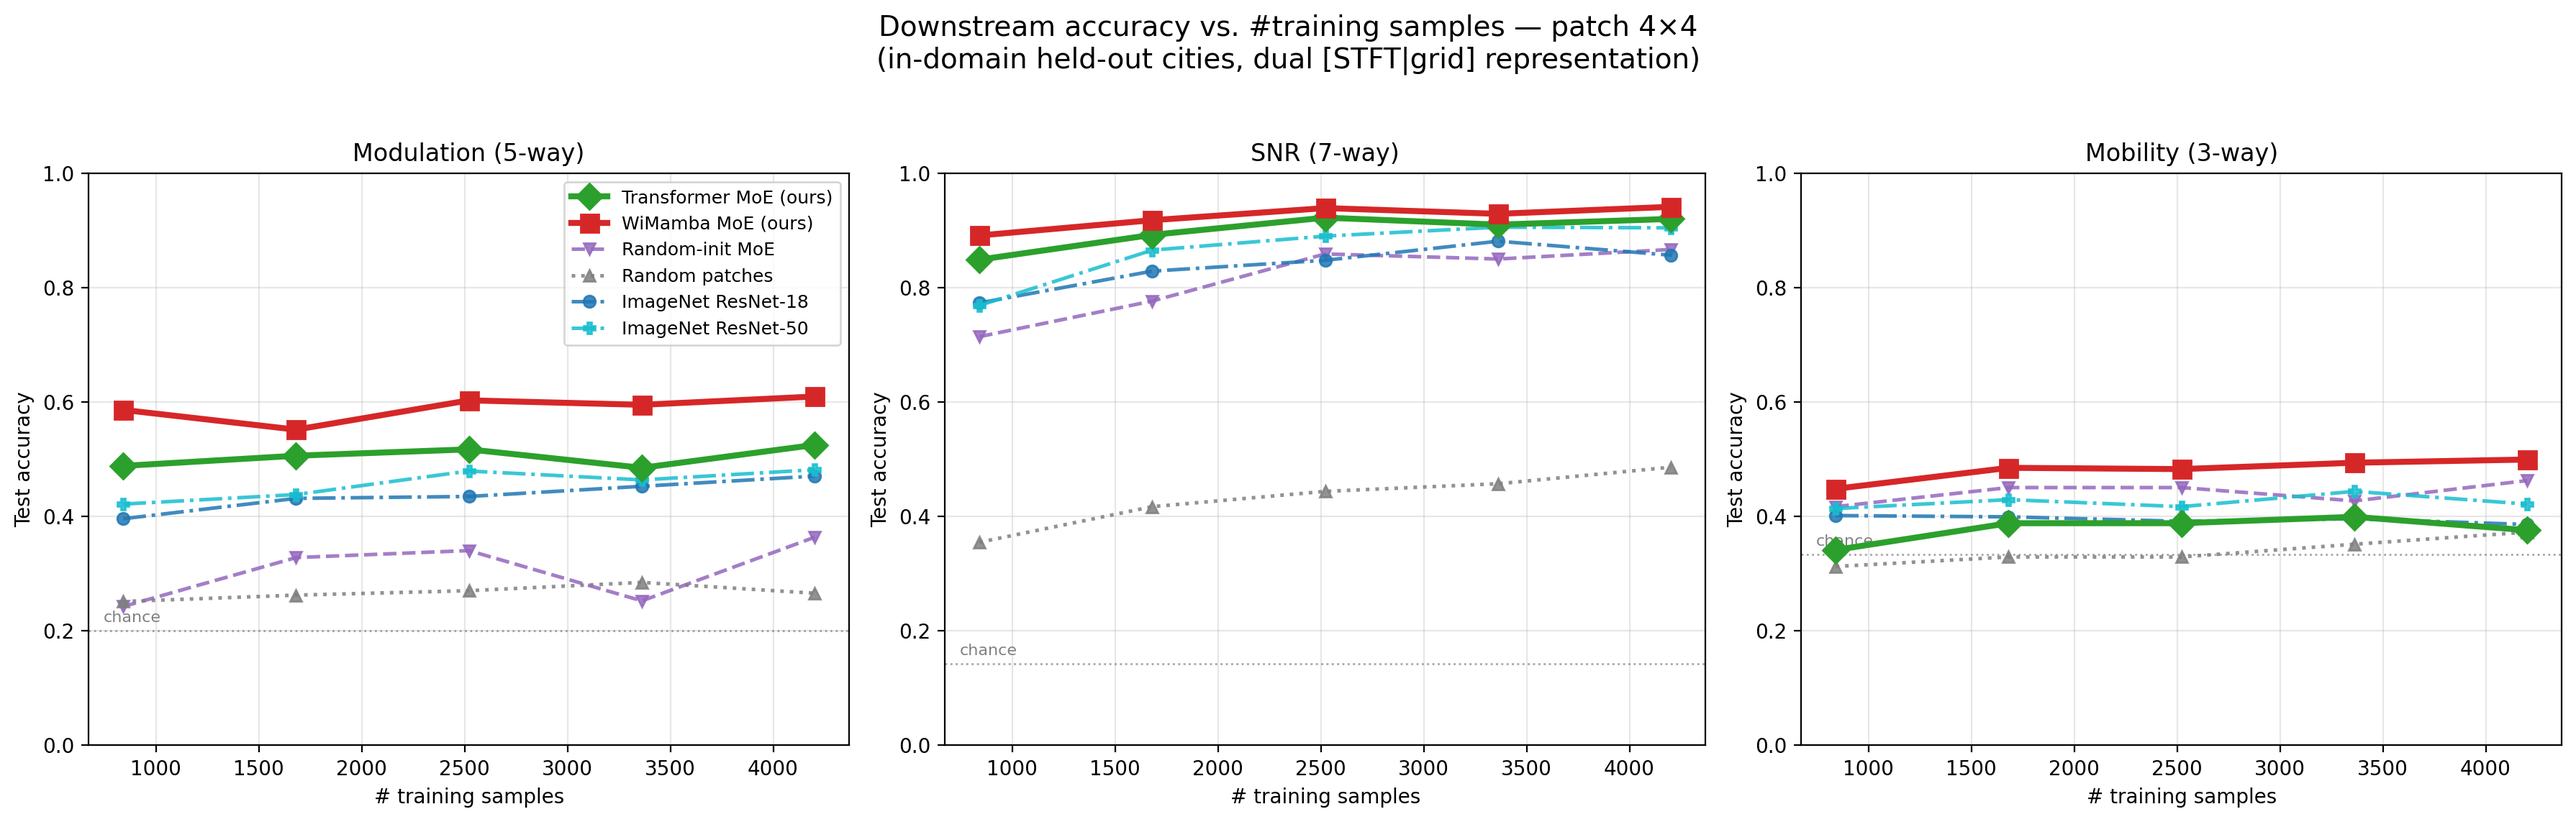
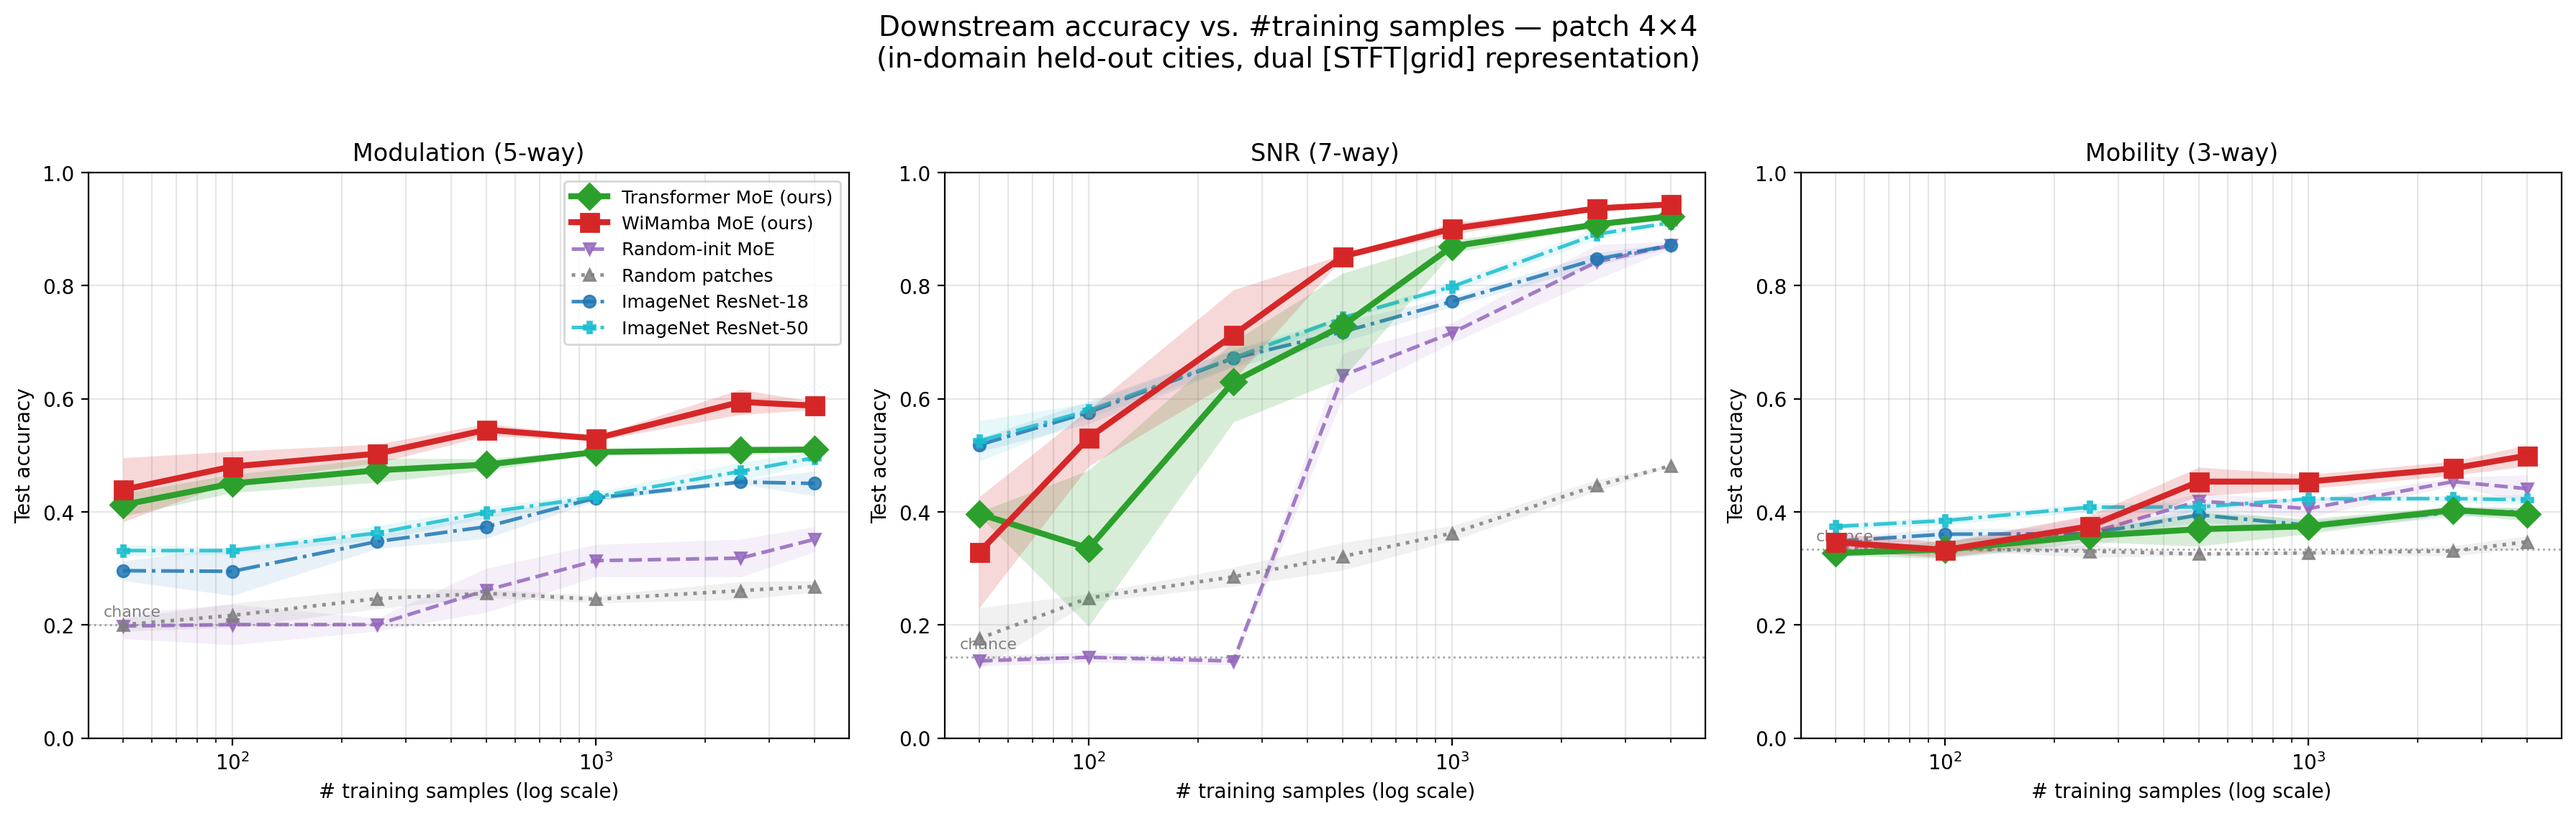
Multi-seed absolute-count sample sweep + std bands on the per-patch figures
The single-seed 5-percentage curves were noisy. Now:
- spectro_sweep.py: add absolute sample_counts mode (50/100/250/500/1000/2500/
  4000) and multi-seed averaging. Each x-point runs over --seeds (42/43/44),
  reseeding both the training subsample and the head init; stores mean, std and
  per-seed scores. Frozen features are fixed — only head training varies.
- spectro_train_heads.py: --sample-counts and --seeds pass-through.
- spectro_plot_samples_per_patch.py: log x-axis, +/-std shaded bands, reads the
  new mean/std schema.

Re-ran all arms x patches on the dual [STFT|grid] held-out eval, 3 seeds each
(zero failures). Curves are now smooth and the few-shot regime is legible: our
WiMamba MoE leads on all three tasks; Transformer MoE tracks it on modulation
and SNR. Mobility stays the hard ~0.5 task where only the Mamba arm clears the
baselines.

diff --git a/spectro/scripts/spectro_sweep.py b/spectro/scripts/spectro_sweep.py
@@ -24,6 +24,9 @@ from spectro_data import TASKS, SpectroData  # noqa: E402
 from spectro_train_heads_config import TASK_CONFIGS, ClassificationHead  # noqa: E402
 
 SAMPLE_PERCENTAGES = [0.2, 0.4, 0.6, 0.8, 1.0]
+# absolute-count sweep (used by the per-patch accuracy-vs-samples figures); spreads the low end to
+# expose the few-shot regime where pretraining helps most.
+SAMPLE_COUNTS = [50, 100, 250, 500, 1000, 2500, 4000]
 
 
 def _accuracy(logits: torch.Tensor, labels: torch.Tensor) -> float:
@@ -31,16 +34,32 @@ def _accuracy(logits: torch.Tensor, labels: torch.Tensor) -> float:
     return float((preds == labels).float().mean().item())
 
 
+def _subsample_count(n_total: int, count: int, seed: int) -> np.ndarray:
+    """Deterministic seeded pick of ``min(count, n_total)`` training indices (>=1), sorted."""
+    rng = np.random.RandomState(seed)
+    perm = rng.permutation(n_total)
+    k = min(max(1, count), n_total)
+    return np.sort(perm[:k])
+
+
 def run_sweep(arm: str, features: torch.Tensor, data: SpectroData, out_dir: str, *,
-              percentages=SAMPLE_PERCENTAGES, seed: int = 42, device: str = "cuda",
-              epochs_override: int | None = None) -> Dict:
-    """Run the percentage sweep for one arm; write aggregated_results.json + radar chart."""
+              sample_counts=None, percentages=SAMPLE_PERCENTAGES, seeds=None, seed: int = 42,
+              device: str = "cuda", epochs_override: int | None = None) -> Dict:
+    """Sample-variation sweep for one arm; write aggregated_results.json + radar chart.
+
+    Two x-axis modes: absolute ``sample_counts`` (preferred, spreads the few-shot regime) or legacy
+    ``percentages``. Each x-point is averaged over ``seeds`` (each seed reseeds both the training
+    subsample and the head init) so the curves report mean +/- std, not a single noisy draw. The
+    frozen feature matrix is fixed; only the head training varies across seeds."""
     os.makedirs(out_dir, exist_ok=True)
+    seeds = list(seeds) if seeds else [seed]
     input_dim = features.shape[1]
     train_idx, val_idx, test_idx = data.train_idx, data.val_idx, data.test_idx
+    use_counts = sample_counts is not None
+    x_points = list(sample_counts) if use_counts else list(percentages)
 
     results_by_task = {}
-    results_by_pct = {}
+    results_by_x = {}
     for task in TASKS:
         cfg = dict(TASK_CONFIGS[task])
         if epochs_override:
@@ -51,41 +70,54 @@ def run_sweep(arm: str, features: torch.Tensor, data: SpectroData, out_dir: str,
         test_feats, test_y = features[test_idx], y[test_idx]
 
         task_results = {}
-        for pct in percentages:
-            sub = subsample_training_data(len(train_idx), pct, seed=seed)
-            sel = train_idx[sub]
-            tr_feats, tr_y = features[sel], y[sel]
+        for x in x_points:
+            scores = []
+            n_samples = None
+            for sd in seeds:
+                sub = (_subsample_count(len(train_idx), x, seed=sd) if use_counts
+                       else subsample_training_data(len(train_idx), x, seed=sd))
+                sel = train_idx[sub]
+                n_samples = len(sel)
+                tr_feats, tr_y = features[sel], y[sel]
+                torch.manual_seed(sd); np.random.seed(sd)
+                head = ClassificationHead(input_dim, n_classes)
+                _, _, score, _, _ = finetune(
+                    head, tr_feats, tr_y, val_feats, val_y, test_feats, test_y,
+                    score_fn=_accuracy, epochs=cfg['epochs'], lr=cfg['lr'],
+                    weight_decay=cfg['weight_decay'], batch_size=cfg['batch_size'],
+                    patience=cfg['patience'], scheduler_step=cfg['scheduler_step'],
+                    scheduler_gamma=cfg['scheduler_gamma'], device=device)
+                scores.append(score)
 
-            head = ClassificationHead(input_dim, n_classes)
-            _, _, score, _, _ = finetune(
-                head, tr_feats, tr_y, val_feats, val_y, test_feats, test_y,
-                score_fn=_accuracy, epochs=cfg['epochs'], lr=cfg['lr'],
-                weight_decay=cfg['weight_decay'], batch_size=cfg['batch_size'],
-                patience=cfg['patience'], scheduler_step=cfg['scheduler_step'],
-                scheduler_gamma=cfg['scheduler_gamma'], device=device)
-
-            n_samples = len(sel)
-            pct_key = str(int(pct * 100))
-            task_results[pct_key] = {'score': score, 'n_samples': n_samples}
-            results_by_pct.setdefault(pct_key, {})[f'task_{task}'] = score
-            print(f"  [{arm}] {task:10s} pct={pct_key:>3s}% n={n_samples:5d}  acc={score:.4f}")
+            mean_s, std_s = float(np.mean(scores)), float(np.std(scores))
+            key = str(n_samples) if use_counts else str(int(x * 100))
+            task_results[key] = {'score': mean_s, 'score_std': std_s, 'scores': scores,
+                                 'n_samples': n_samples}
+            results_by_x.setdefault(key, {})[f'task_{task}'] = mean_s
+            print(f"  [{arm}] {task:10s} n={n_samples:5d}  acc={mean_s:.4f} +/- {std_s:.4f} "
+                  f"({len(seeds)} seeds)")
 
         results_by_task[f'task_{task}'] = {'name': TASKS[task]['name'], 'results': task_results}
 
     aggregated = {
         'experiment_config': {
-            'arm': arm, 'sample_percentages': [int(p * 100) for p in percentages],
-            'tasks': list(TASKS.keys()), 'feature_dim': input_dim, 'seed': seed,
+            'arm': arm, 'tasks': list(TASKS.keys()), 'feature_dim': input_dim, 'seeds': seeds,
+            'x_axis': 'sample_counts' if use_counts else 'percentages',
+            'sample_counts': list(sample_counts) if use_counts else None,
+            'sample_percentages': None if use_counts else [int(p * 100) for p in percentages],
         },
         'results_by_task': results_by_task,
         'results_by_percentage': {
             pk: {**scores, 'composite_score': float(np.mean(list(scores.values())))}
-            for pk, scores in results_by_pct.items()
+            for pk, scores in results_by_x.items()
         },
     }
     with open(os.path.join(out_dir, 'aggregated_results.json'), 'w') as f:
         json.dump(aggregated, f, indent=2)
-    _radar_chart(aggregated, os.path.join(out_dir, 'radar_chart.png'), arm)
+    try:
+        _radar_chart(aggregated, os.path.join(out_dir, 'radar_chart.png'), arm)
+    except Exception as e:
+        print(f"  (radar skipped: {e})")
     return aggregated
 
 
@@ -97,7 +129,8 @@ def _radar_chart(aggregated: Dict, save_path: str, arm: str):
     except Exception:
         return
     tasks = aggregated['experiment_config']['tasks']
-    pcts = [str(p) for p in aggregated['experiment_config']['sample_percentages']]
+    # x-keys in stored order (absolute counts or percentages), read off the first task's results
+    pcts = list(aggregated['results_by_task'][f'task_{tasks[0]}']['results'].keys())
     names = [TASKS[t]['name'] for t in tasks]
     N = len(names)
     angles = [n / float(N) * 2 * pi for n in range(N)] + [0]
@@ -106,7 +139,7 @@ def _radar_chart(aggregated: Dict, save_path: str, arm: str):
     for i, pk in enumerate(pcts):
         scores = [aggregated['results_by_task'][f'task_{t}']['results'][pk]['score'] for t in tasks]
         ax.plot(angles, scores + scores[:1], 'o-', color=cmap(i / max(len(pcts) - 1, 1)),
-                label=f'{pk}%', linewidth=1.5)
+                label=f'n={pk}', linewidth=1.5)
     ax.set_xticks(angles[:-1]); ax.set_xticklabels(names)
     ax.set_ylim(0, 1); ax.set_title(f'{arm}: accuracy vs training %')
     ax.legend(loc='upper right', bbox_to_anchor=(1.25, 1.1)); ax.grid(True, alpha=0.3)

diff --git a/spectro/scripts/spectro_plot_samples_per_patch.py b/spectro/scripts/spectro_plot_samples_per_patch.py
@@ -48,7 +48,7 @@ _PATCH_INDEPENDENT = {'resnet18', 'resnet50'}
 
 
 def _curve(arm, patch, suffix, task_key):
-    """(#samples, accuracy) point lists for (arm, patch, task), sorted by sample count, or None."""
+    """(#samples, mean-acc, std) lists for (arm, patch, task), sorted by sample count, or None."""
     path = os.path.join(_SUBMISSIONS, f'submission_spectro_{arm}_p{patch}{suffix}', 'aggregated_results.json')
     if not os.path.exists(path) and arm in _PATCH_INDEPENDENT:
         path = os.path.join(_SUBMISSIONS, f'submission_spectro_{arm}_p4{suffix}', 'aggregated_results.json')
@@ -56,11 +56,11 @@ def _curve(arm, patch, suffix, task_key):
         return None
     d = json.load(open(path))
     r = d.get('results_by_task', {}).get(task_key, {}).get('results', {})
-    pts = sorted((v['n_samples'], v['score']) for v in r.values())
+    pts = sorted((v['n_samples'], v['score'], v.get('score_std', 0.0)) for v in r.values())
     if not pts:
         return None
-    xs, ys = zip(*pts)
-    return list(xs), list(ys)
+    xs, ys, es = zip(*pts)
+    return list(xs), list(ys), list(es)
 
 
 def _scope(suffix):
@@ -91,18 +91,24 @@ def main():
                 if not c:
                     continue
                 drew_any = True
-                xs, ys = c
+                xs, ys, es = c
                 ax.plot(xs, ys, color=color, linestyle=ls, marker=marker, label=label,
                         linewidth=3 if on_top else 1.8, markersize=9 if on_top else 6,
                         zorder=5 if on_top else 3, alpha=1.0 if on_top else 0.85)
+                if any(e > 0 for e in es):
+                    lo = [y - e for y, e in zip(ys, es)]
+                    hi = [y + e for y, e in zip(ys, es)]
+                    ax.fill_between(xs, lo, hi, color=color, alpha=0.18 if on_top else 0.10,
+                                    zorder=(4 if on_top else 2), linewidth=0)
             ax.axhline(chance, color='gray', linestyle=':', linewidth=1, alpha=0.7)
             ax.text(0.02, chance + 0.01, 'chance', color='gray', fontsize=8,
                     va='bottom', transform=ax.get_yaxis_transform())
             ax.set_title(task_name)
-            ax.set_xlabel('# training samples')
+            ax.set_xlabel('# training samples (log scale)')
             ax.set_ylabel('Test accuracy')
             ax.set_ylim(0, 1)
-            ax.grid(True, alpha=0.3)
+            ax.set_xscale('log')
+            ax.grid(True, which='both', alpha=0.3)
         if not drew_any:
             plt.close(fig)
             print(f"patch {patch}: no results for suffix={args.suffix!r} — skipped.")

diff --git a/spectro/scripts/spectro_train_heads.py b/spectro/scripts/spectro_train_heads.py
@@ -147,6 +147,12 @@ def main():
     ap.add_argument('--weights-suffix', default='',
                     help="load MoE checkpoints from spectro_{arch}_p{patch}_{suffix}_weights (e.g. 'grid').")
     ap.add_argument('--epochs', type=int, default=None, help='override head epochs (e.g. for smoke)')
+    ap.add_argument('--sample-counts', type=int, nargs='+', default=None,
+                    help='absolute #training-samples to sweep (e.g. 50 100 250 500 1000 2500 4000). '
+                         'Overrides the default percentage sweep.')
+    ap.add_argument('--seeds', type=int, nargs='+', default=None,
+                    help='average each sample point over these head-training seeds (e.g. 42 43 44) '
+                         'to smooth curve noise. Feature extraction is unaffected (single data split).')
     args = ap.parse_args()
 
     device = 'cuda' if torch.cuda.is_available() else 'cpu'
@@ -178,8 +184,8 @@ def main():
     # keep in-domain (_heldout) and representation (_grid) results separate from the demo/STFT sweeps
     tag = ('_heldout' if args.synth_dir else '') + (f'_{args.weights_suffix}' if args.weights_suffix else '')
     out_dir = os.path.join(_SUBMISSIONS, f'submission_spectro_{args.arm}_p{args.patch}{tag}')
-    run_sweep(args.arm, features, data, out_dir, seed=args.seed, device=device,
-              epochs_override=args.epochs)
+    run_sweep(args.arm, features, data, out_dir, seed=args.seed, seeds=args.seeds,
+              sample_counts=args.sample_counts, device=device, epochs_override=args.epochs)
     print(f"\nDone. Results -> {out_dir}/aggregated_results.json")
 
 
